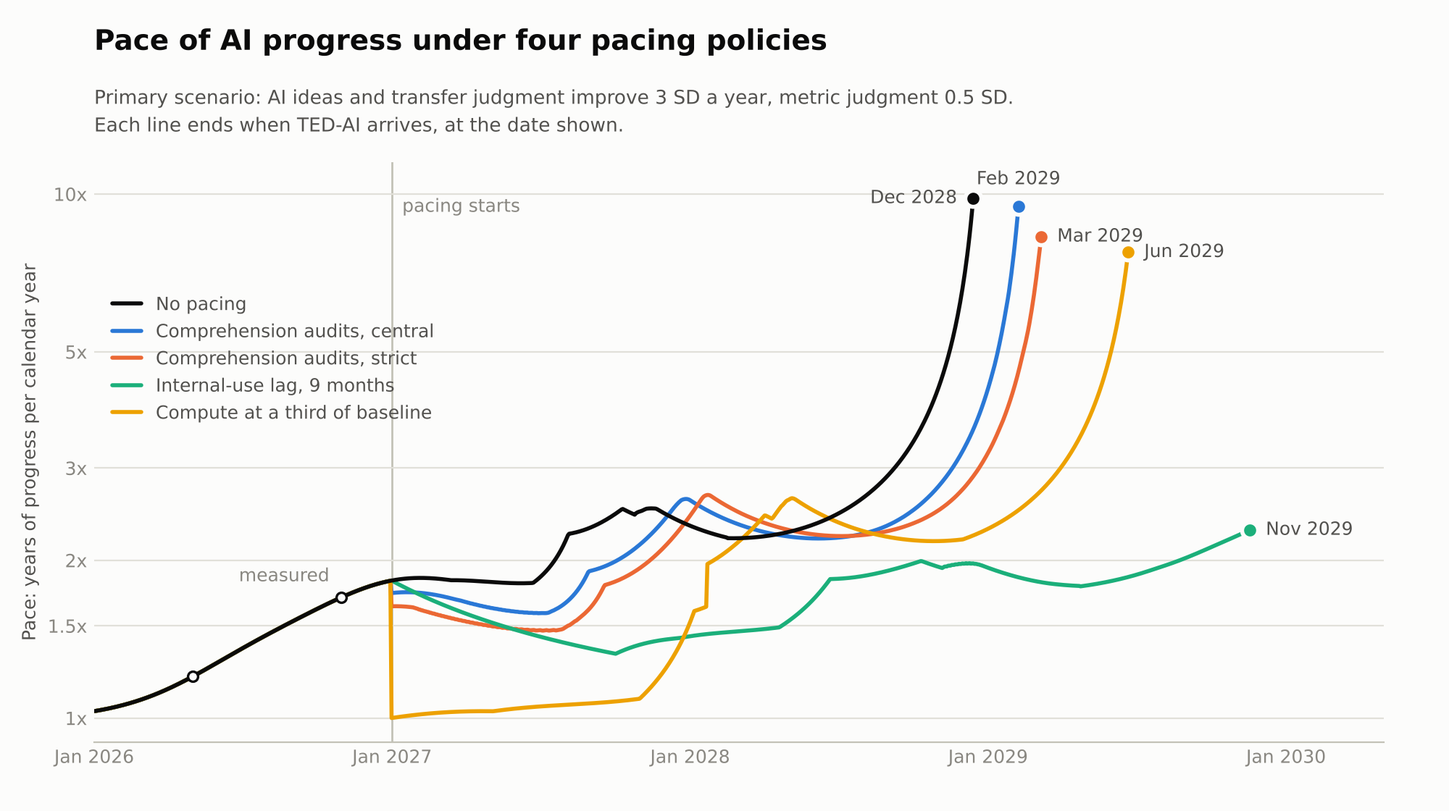
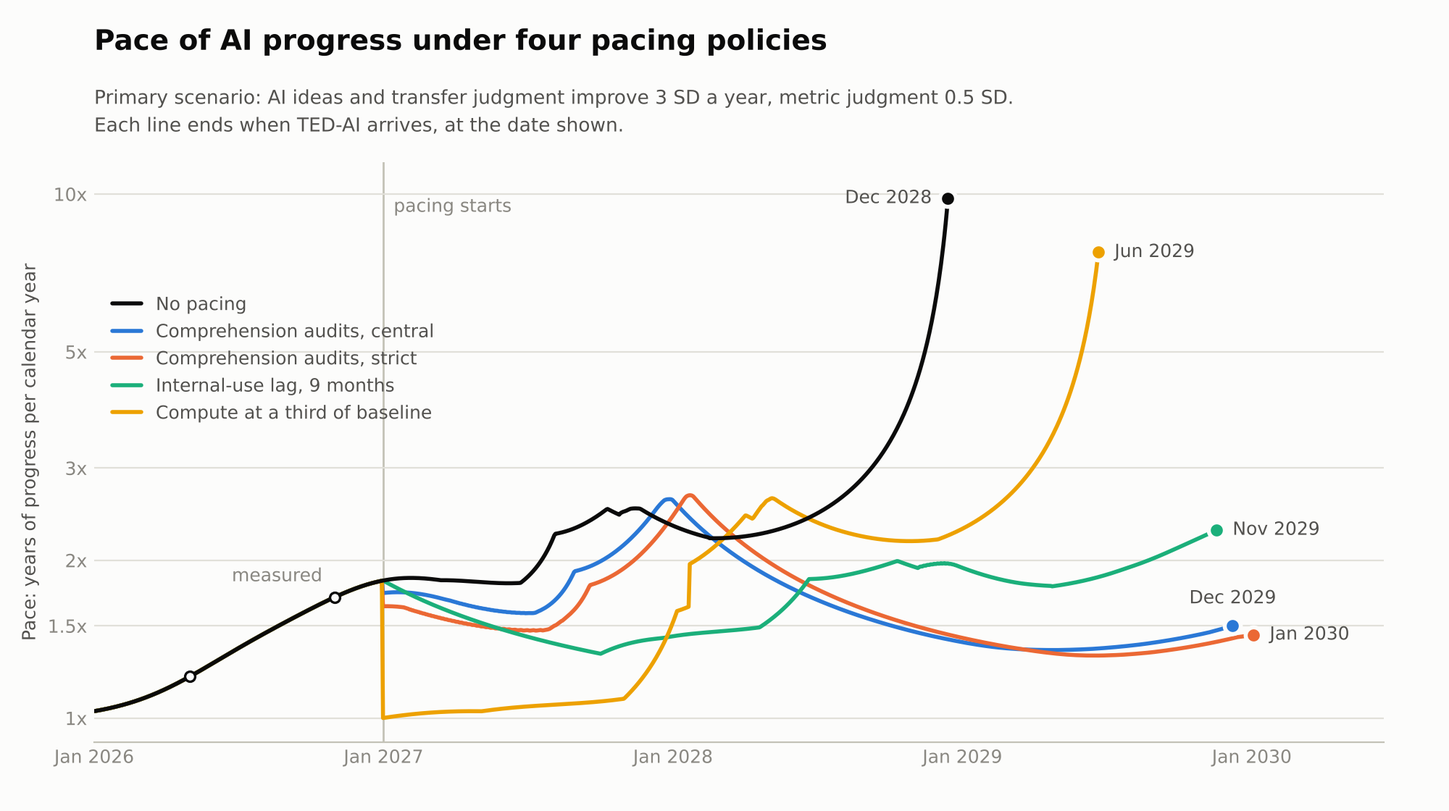
Make the chain model's audit pass a gain only as far as people can vouch for it
An audited lab may deploy a gain only up to what its best researcher
could have proposed. The model already said people cannot judge gains
past that, and an audit that people could pass on a change they cannot
evaluate was inconsistent with it.

Under audits the loop no longer runs away. In the primary scenario
central audits delay TED-AI by 12 months, up from 2, and the pace stays
between 1.4 and 1.7 times through 2029. An audit that takes hours only
is kept as a sensitivity.

Claude-Session: https://claude.ai/code/session_01FEzx7rBG83QTfvYZehGYHo

diff --git a/pacing-takeoff-model/chain/chain_model.py b/pacing-takeoff-model/chain/chain_model.py
@@ -135,6 +135,8 @@ class Params:
     change_growth: float = 0.4  # percent more deployed changes per percent more AI labor
     tail: float = 1.8  # Pareto index of a change's value. Lower means a few changes matter most
     audit_credit: float = 0.5  # share of audit time that also counts as judging experiments
+    audit_needs_vouching: bool = True  # an audited lab may deploy a gain only as far as its
+    # people can vouch for it. False: any change passes once people have spent the hours
 
 
 @dataclass(frozen=True)
@@ -262,8 +264,8 @@ def research(
     """Research per researcher against Oct 1, 2025, real and as measured on the lab's metrics.
 
     `experiments` is the number of experiments at scale against that date. Under audits the
-    lab chooses the share of its changes to understand and deploy that gives the most
-    research."""
+    lab deploys a gain only as far as its people can vouch for it, and it chooses the share
+    of its changes to understand and deploy that gives the most research."""
     n, n0 = ai["candidates"], p.candidates_base
     # Far past the best researcher every candidate is the AI's, and the rule is exp(k * SD).
     ideas = p.value_per_sd * ai["idea_sd"]
@@ -273,6 +275,10 @@ def research(
     gain = ideas + p.value_of_selection * (best_of(n) - best_of(n0))  # at small scale
     vouched = min(gain, p.value_per_sd * p.vouch_sd)
     beyond = gain - vouched
+    if audit_hours > 0.0 and p.audit_needs_vouching:
+        # An audit passes a change only if the lab's people understand it, and they cannot
+        # understand a gain past what they can vouch for. That part is not deployed.
+        gain, beyond = vouched, 0.0
     base = standing(p)
     # Once the AI's judgment on a link passes people's, people use it.
     transfer_people = max(1.0, ai["transfer"])
@@ -607,6 +613,7 @@ SENSITIVITY = (
     ("Transfer with the AI judging today: 0.4", dict(transfer_ai_start=0.4)),
     ("AI never judges better than people", dict(transfer_max=0.7, validity_max=0.8)),
     ("People can vouch for any gain", dict(vouch_sd=1e9)),
+    ("Audits take hours only: any change passes once understood", dict(audit_needs_vouching=False)),
     ("People can vouch for gains up to +1 SD ideas", dict(vouch_sd=1.0)),
     (
         "Judging time per experiment grows with candidates, elasticity 0.25",

diff --git a/pacing-takeoff-model/chain/test_chain_model.py b/pacing-takeoff-model/chain/test_chain_model.py
@@ -219,3 +219,25 @@ def test_the_pace_of_2026_cannot_be_fitted_much_above_the_central_difficulty():
     easy = replace(P, volume_elasticity=0.0)
     assert pace_in_november(fit_labor(replace(easy, difficulty=central - 0.05))) >= PACE_REF
     assert pace_in_november(fit_labor(replace(easy, difficulty=central + 0.05))) < PACE_REF
+
+
+def test_an_audited_lab_cannot_deploy_gains_past_what_its_people_can_vouch_for():
+    # An AI far past the best researcher: with no audit its ideas carry the research, and
+    # under an audit the lab gets no more than it would from ideas at the best researcher's.
+    far = ai_state(P.progress_at_ref + 4.0, SLOW)
+    at_range = dict(far, idea_sd=SLOW.vouch_sd)
+    assert far["idea_sd"] > SLOW.vouch_sd + 5.0
+    free = research(far, SLOW, experiments=5.0)
+    audited = research(far, SLOW, experiments=5.0, audit_hours=1.0, labor_at_ref=far["labor"])
+    capped = research(at_range, SLOW, experiments=5.0, audit_hours=1.0, labor_at_ref=far["labor"])
+    assert audited["real"] == pytest.approx(capped["real"])
+    assert audited["real"] < 0.5 * free["real"]
+
+
+def test_under_audits_the_pace_does_not_run_away():
+    free, audited = simulate(SLOW), simulate(SLOW, CENTRAL)
+    assert free["pace"][-1] > 5.0
+    assert np.nanmax(audited["pace"]) < 4.0
+    assert months(free, audited) > 6.0
+    hours_only = simulate(replace(SLOW, audit_needs_vouching=False), CENTRAL)
+    assert months(free, hours_only) < 0.5 * months(free, audited)

diff --git a/pacing-takeoff-model/chain/README.md b/pacing-takeoff-model/chain/README.md
@@ -13,7 +13,7 @@ Terms used below:
 - **Progress** is measured in years of AI progress at the rate before October 2025. **Pace** is years of progress per calendar year.
 - **SD** is a standard deviation of research judgment across a lab's researchers. The best researcher is at +3.09 SD.
 - **Researcher-level AI** is the date an AI-only lab's research matches a lab made up of its best researchers. **TED-AI** is the date it matches the level the AI Futures Project uses for top-expert-dominating AI, +7.72 SD. "Where the two levels come from" below gives their source.
-- **Comprehension audits** let a lab deploy only the changes its own people understand. An **internal-use lag** makes a lab work with the AI it had some months ago. A **compute limit** holds a lab to a share of the compute it would otherwise use for research and for training.
+- **Comprehension audits** let a lab deploy only the changes its own people understand. Understanding takes researchers' hours, and it has a reach: people cannot understand a gain past what they can vouch for, so an audited lab cannot deploy that part. An **internal-use lag** makes a lab work with the AI it had some months ago. A **compute limit** holds a lab to a share of the compute it would otherwise use for research and for training.
 
 ## The chain
 
@@ -29,7 +29,7 @@ small-scale result  ->  result on the metric at scale  ->  real value
 3. **Transfer** is the share of a small-scale gain that holds at scale. It depends on who judged which candidate would transfer.
 4. **Validity** is the share of a gain on the metric that is real. It depends on who defined the metric and checked the result for gaming.
 5. **People's time.** A person who judges an experiment supplies both links. Researchers judge as many experiments as they have time for, and the AI judges the rest with its own transfer and metric judgment. AI takes over implementation, which frees researcher time. Managing the agents takes part of it back, and more experiments use up the rest.
-6. **What people can vouch for.** People's judgment applies to gains up to what their best researcher could have proposed. The AI judges any gain beyond that.
+6. **What people can vouch for.** People's judgment applies to gains up to what their best researcher could have proposed. The AI judges any gain beyond that. Under comprehension audits the part beyond it is not deployed.
 7. **The lab chooses.** It runs the amount of AI labor that gives it the most research. More agents mean more experiments and more candidates. They also mean more for people to judge and, under audits, more deployed changes to understand.
 8. **The loop.** Real research makes software progress, and progress makes better AI.
 9. **Difficulty.** Research gets harder as software advances: each year of software progress halves what a unit of research buys. A lab's other inputs, compute and people, have grown fast enough to offset that, which is what a pace of 1 means. Whether the loop runs away or peters out turns on whether the AI's judgment adds research faster than difficulty takes it away.
@@ -115,24 +115,25 @@ Delay to TED-AI in every scenario. Pacing starts January 1, 2027.
 
 | AI judgment gained per year of progress | Central audits | Strict audits | 9-month lag | Compute at a third of baseline |
 |---|---|---|---|---|
-| Ideas, transfer and metrics all +3 SD | +0 mo | +1 mo | +11 mo | +4 mo |
-| Ideas and transfer +3, metrics +1 | +2 mo | +3 mo | +10 mo | +6 mo |
-| **Ideas and transfer +3, metrics +0.5 (primary)** | **+2 mo** | **+3 mo** | **+11 mo** | **+6 mo** |
-| Ideas +3, transfer and metrics +1 | +2 mo | +3 mo | +9 mo | +7 mo |
-| Ideas +3, transfer +1, metrics +0.5 | +2 mo | +4 mo | +11 mo | +7 mo |
-| Ideas +3, transfer and metrics +0.5 | +2 mo | +4 mo | +10 mo | +7 mo |
+| Ideas, transfer and metrics all +3 SD | +1 mo | +1 mo | +11 mo | +4 mo |
+| Ideas and transfer +3, metrics +1 | +4 mo | +5 mo | +10 mo | +6 mo |
+| **Ideas and transfer +3, metrics +0.5 (primary)** | **+12 mo** | **+13 mo** | **+11 mo** | **+6 mo** |
+| Ideas +3, transfer and metrics +1 | +4 mo | +5 mo | +9 mo | +7 mo |
+| Ideas +3, transfer +1, metrics +0.5 | +11 mo | +12 mo | +11 mo | +7 mo |
+| Ideas +3, transfer and metrics +0.5 | +13 mo | +14 mo | +10 mo | +7 mo |
 
-Central audits take the hours to understand every deployed change that researchers are assumed to spend today, 14% of their time. Strict audits take twice the hours. The compute limit holds a lab to a third of the compute it would otherwise use for experiments at scale, for small experiments, for running AI labor and for training the next model.
+An audit has two parts here. The first is hours: central audits take the hours to understand every deployed change that researchers are assumed to spend today, 14% of their time, and strict audits take twice that. The second is reach: a lab's people can understand a gain only as far as they can vouch for it, which is up to what their best researcher could have proposed. The part of a gain past that is not deployed, however many hours are spent. The compute limit holds a lab to a third of the compute it would otherwise use for experiments at scale, for small experiments, for running AI labor and for training the next model.
 
-- **A 9-month lag delays TED-AI the most, by 9 to 11 months in every scenario.**
+- **Under audits the loop does not run away.** In the primary scenario the pace under central audits peaks at 2.6 times in January 2028 and is 1.4 to 1.7 times from mid-2028 through 2029. With no pacing it reaches 9.8 times as TED-AI arrives in December 2028.
+- **TED-AI still arrives, a year later, as a capability the lab may not fully use.** The lab keeps making progress on gains its people can vouch for, and the AI keeps improving with that progress. In December 2029 the newest AI could do research at the TED-AI level. The audited lab deploys only the part of its ideas that people can vouch for, and its pace is 1.5 times.
+- **The reach does the work, and the hours add a month.** Light, central and strict audits delay TED-AI in the primary scenario by 11, 12 and 13 months. If any change passes once people have spent the hours, central audits delay it by 2 months.
+- **Audits delay most where the AI's metric judgment is slow.** Central audits delay TED-AI by 11 to 13 months with metrics at +0.5 SD, by 4 months at +1 SD and by 1 month where all judgment improves 3 SD a year. In that last scenario TED-AI arrives before the AI's ideas are far past people's.
+- **The delay moves with how far people can vouch.** With a reach of +1 SD ideas the central delay in the primary scenario is 16 months, against 12 at the best researcher's +3.09 SD.
+- **An audited lab runs far fewer agents.** More agents mean more changes to understand. From 2028 to early 2029 the lab runs 12 to 34 agents per researcher and its people judge a quarter to two fifths of its experiments.
+- **A 9-month lag delays TED-AI by 9 to 11 months in every scenario.** Central audits and the lag together delay it by 15 months in the primary scenario.
 - **A compute limit at a third of baseline delays it by 4 to 7 months.** Training waits about a year for its allowance to catch up with what it has already used, and research runs on a third of the compute from then on.
-- **Audits delay it by up to 2 months at the central standard and 1 to 4 at the strict one.**
-- **An audited lab runs far fewer agents.** More agents mean more changes to understand, so the lab cuts the AI labor it runs to between tens and thousands of agents per researcher, where it could run a hundred thousand or more. It loses little, because what agents add to experiments and to candidates flattens, and with fewer experiments people judge more of them.
-- **So in this model audits work as a brake on how much AI labor a lab runs.** They slow the pace through 2027 and delay the takeoff by months.
-- **An earlier version of this section had audits delaying TED-AI by one to four years.** There the lab had to run all the AI labor it had, and the pace under audits fell below its level before AI. That result is withdrawn.
-- **The audit result still rests on deployed changes growing with AI labor.** The model assumes 0.4% more changes for each 1% more labor. Anthropic's figures support that over the range seen so far: commits per engineer rose 5 times in six months while agent hours per person rose 50 to 100 times, an elasticity of about 0.35 to 0.4. If deployed changes do not grow with AI labor, audits delay TED-AI by nothing.
-- **Half of audit time is taken to count as judging.** At none of it the central delay in the primary scenario is 3 months, and at all of it 1.
 - **A third is a tight compute limit.** In the AI Futures Project's input series, experiments, training and running AI researchers take 62% of the leading company's compute in 2026: 50%, 7% and 5%. A third of that is 21%, which matches a rule that about 79% of compute go to other uses. A rule of 60% would leave research about two thirds of baseline and delay TED-AI by 2 to 3 months. That run is not in the results file.
+- **Two earlier versions of this section are withdrawn.** In the first the lab had to run all the AI labor it had, and audits delayed TED-AI by one to four years. In the second an audit took hours only, and audits delayed it by 2 months.
 
 ## Where the two levels come from
 
@@ -149,10 +150,10 @@ The debate over whether automated research runs away or peters out is a debate a
 
 | Halvings of what research buys per year of software progress | Share of a gain the AI must keep for the loop to run away | TED-AI, all judgment +3 SD | TED-AI, primary scenario | Central audits delay it |
 |---|---|---|---|---|
-| 0.5 | 39% | Apr 2027 | Apr 2028 | +1 mo |
-| 1 | 78% | May 2027 | Dec 2028 | +2 mo |
-| 1.5 | 117% | Jun 2027 | Jun 2029 | +2 mo |
-| 2 | 156% | Aug 2027 | Nov 2029 | +2 mo |
+| 0.5 | 39% | Apr 2027 | Apr 2028 | +8 mo |
+| 1 | 78% | May 2027 | Dec 2028 | +12 mo |
+| 1.5 | 117% | Jun 2027 | Jun 2029 | +12 mo |
+| 2 | 156% | Aug 2027 | Nov 2029 | +11 mo |
 
 The table stops at 2 because the model cannot reach the pace measured in November 2026 at much higher values. The highest difficulty that still fits, and how it moves with the inputs it rests on:
 
@@ -180,12 +181,12 @@ The table stops at 2 because the model cannot reach the pace measured in Novembe
 
 ## Each input moved
 
-The primary scenario. TED-AI is December 2028 in the central row. Across the 20 rows in `results/tables.md` it runs from December 2027 to July 2029.
+The primary scenario. TED-AI is December 2028 in the central row. Across the 21 rows in `results/tables.md` it runs from December 2027 to July 2029.
 
 - **Earliest.** Validity of 0.3 with the AI judging today (December 2027). An experiment ceiling of 60 times (March 2028). People able to vouch for any gain (April 2028).
 - **Latest.** Validity of 0.01 with the AI judging today (July 2029). An AI that never judges better than people, and ideas at +2.1 SD (both June 2029).
 - **Time spent managing agents matters little.** With none, TED-AI comes in November 2028, and with a third of researcher time, January 2029.
-- **The delay from central audits is 1 to 4 months in every row** but the one where deployed changes do not grow with AI labor. The delay from a 9-month lag is 10 to 15 months.
+- **The delay from central audits is 8 to 16 months in every row but two.** Those are the rows that remove the reach: people able to vouch for any gain (1 month), and audits that take hours only (2 months). The delay from a 9-month lag is 10 to 15 months.
 - **The level set for TED-AI matters little.** At the public code's default of +6.18 SD, TED-AI comes in November 2028, a month earlier. That run is not in the results file.
 
 ## Inputs
@@ -212,9 +213,12 @@ The primary scenario. TED-AI is December 2028 in the central row. Across the 20 
 | Growth of deployed changes with AI labor | 0.4 | Judgment. Anthropic's commits per engineer and agent hours give about 0.35 to 0.4 over six months of 2026. Tested at 0 |
 | Spread of value across deployed changes | Pareto index 1.8 | Judgment |
 | Share of audit time that counts as judging | 50% | Judgment. Tested at 0 and 100% |
+| What an audit passes | A gain only as far as people can vouch for it | Readback's judgment of 2026-11-16: an audit that people can pass on a change they cannot evaluate does not test comprehension. Tested with hours only |
 
 ## What to hold loosely
 
+- **How far people can vouch is fixed.** It stays at the best researcher's level however good the AI becomes at explaining its work. If AI help extends it, audits delay less.
+- **Under audits TED-AI is a capability, and the model stops there.** It does not follow what a lab does with an AI it may not fully use, or whether the audit holds.
 - **AI labor keeps doubling, with no cap.** The model extrapolates a monthly doubling of agent hours per researcher that has been observed for seven months, and Anthropic's own series flattens in its last ten days. Readback's judgment is that the ratio keeps climbing as AI takes over research. What the labor adds is capped, and a lab runs only as much of it as helps.
 - **Judgment improves with progress, with no limit on how fast.** A lab would need its feedback on transfer and metrics to keep up.
 - **Ideas have no ceiling.** AI judgment on well-defined problems rises without limit, as in the AI Futures Model.
@@ -238,7 +242,7 @@ pytest
 |---|---|
 | `chain_model.py` | The model and the code that writes the tables |
 | `figure.py` | Draws `results/pace.png`. Needs matplotlib |
-| `test_chain_model.py` | Sixteen checks: the calibration, the AI Futures case the model reduces to, and the directions its results must move in |
+| `test_chain_model.py` | Eighteen checks: the calibration, the AI Futures case the model reduces to, and the directions its results must move in |
 | `results/tables.md` | Every table, written by the script |
 | `LICENSE` | MIT |
 

diff --git a/pacing-takeoff-model/chain/results/tables.md b/pacing-takeoff-model/chain/results/tables.md
@@ -21,12 +21,12 @@ Researcher-level AI and TED-AI are the dates an AI-only lab's research matches a
 
 | AI judgment gained per year | TED-AI, no pacing | Central audits | Strict audits | 9-month lag | Compute at a third of baseline |
 |---|---|---|---|---|---|
-| Ideas, transfer and metrics all +3 SD a year | May 2027 | +0 mo | +1 mo | +11 mo | +4 mo |
-| Ideas and transfer +3, metrics +1 | Jan 2028 | +2 mo | +3 mo | +10 mo | +6 mo |
-| Ideas and transfer +3, metrics +0.5 | Dec 2028 | +2 mo | +3 mo | +11 mo | +6 mo |
-| Ideas +3, transfer and metrics +1 | May 2028 | +2 mo | +3 mo | +9 mo | +7 mo |
-| Ideas +3, transfer +1, metrics +0.5 | Apr 2029 | +2 mo | +4 mo | +11 mo | +7 mo |
-| Ideas +3, transfer and metrics +0.5 | Jan 2030 | +2 mo | +4 mo | +10 mo | +7 mo |
+| Ideas, transfer and metrics all +3 SD a year | May 2027 | +1 mo | +1 mo | +11 mo | +4 mo |
+| Ideas and transfer +3, metrics +1 | Jan 2028 | +4 mo | +5 mo | +10 mo | +6 mo |
+| Ideas and transfer +3, metrics +0.5 | Dec 2028 | +12 mo | +13 mo | +11 mo | +6 mo |
+| Ideas +3, transfer and metrics +1 | May 2028 | +4 mo | +5 mo | +9 mo | +7 mo |
+| Ideas +3, transfer +1, metrics +0.5 | Apr 2029 | +11 mo | +12 mo | +11 mo | +7 mo |
+| Ideas +3, transfer and metrics +0.5 | Jan 2030 | +13 mo | +14 mo | +10 mo | +7 mo |
 
 ## The path with no pacing: ideas and transfer +3, metrics +0.5
 
@@ -41,26 +41,27 @@ Researcher-level AI and TED-AI are the dates an AI-only lab's research matches a
 
 | Case | Researcher-level AI | TED-AI | Central audits delay TED-AI | 9-month lag delays TED-AI |
 |---|---|---|---|---|
-| Central | Aug 2028 | Dec 2028 | +2 mo | +11 mo |
-| Experiments from unlimited AI labor: 5 times | Nov 2028 | Mar 2029 | +1 mo | +11 mo |
-| Experiments from unlimited AI labor: 60 times | Jan 2028 | Mar 2028 | +4 mo | +12 mo |
-| Validity with the AI judging today: 0.3 | Sep 2027 | Dec 2027 | +1 mo | +12 mo |
-| Validity with the AI judging today: 0.01 | Mar 2029 | Jul 2029 | +1 mo | +10 mo |
-| Transfer with the AI judging today: 0.4 | Aug 2028 | Dec 2028 | +2 mo | +11 mo |
-| AI never judges better than people | Feb 2029 | Jun 2029 | +2 mo | +10 mo |
+| Central | Aug 2028 | Dec 2028 | +12 mo | +11 mo |
+| Experiments from unlimited AI labor: 5 times | Nov 2028 | Mar 2029 | +10 mo | +11 mo |
+| Experiments from unlimited AI labor: 60 times | Jan 2028 | Mar 2028 | +13 mo | +12 mo |
+| Validity with the AI judging today: 0.3 | Sep 2027 | Dec 2027 | +8 mo | +12 mo |
+| Validity with the AI judging today: 0.01 | Mar 2029 | Jul 2029 | +11 mo | +10 mo |
+| Transfer with the AI judging today: 0.4 | Aug 2028 | Dec 2028 | +12 mo | +11 mo |
+| AI never judges better than people | Feb 2029 | Jun 2029 | +14 mo | +10 mo |
 | People can vouch for any gain | Mar 2028 | Apr 2028 | +1 mo | +15 mo |
-| People can vouch for gains up to +1 SD ideas | Nov 2028 | Feb 2029 | +2 mo | +11 mo |
-| Judging time per experiment grows with candidates, elasticity 0.25 | Sep 2028 | Jan 2029 | +2 mo | +11 mo |
-| 60% of researcher time was already on judging | Oct 2028 | Jan 2029 | +2 mo | +11 mo |
-| No researcher time goes to managing agents | Jul 2028 | Nov 2028 | +1 mo | +11 mo |
-| A third of researcher time goes to managing agents | Sep 2028 | Jan 2029 | +2 mo | +11 mo |
-| Ideas improve +2.1 SD a year | Mar 2029 | Jun 2029 | +2 mo | +11 mo |
-| Selection worth twice as much | Jul 2028 | Oct 2028 | +2 mo | +11 mo |
-| Up to a million candidates behind each experiment | Sep 2028 | Dec 2028 | +1 mo | +11 mo |
-| Compute grows at half the historical rate from 2029 | Aug 2028 | Dec 2028 | +2 mo | +12 mo |
-| Audit time counts in full as judging | Aug 2028 | Dec 2028 | +1 mo | +11 mo |
-| Audit time does not count as judging | Aug 2028 | Dec 2028 | +3 mo | +11 mo |
-| Deployed changes do not grow with AI labor | Aug 2028 | Dec 2028 | +0 mo | +11 mo |
+| Audits take hours only: any change passes once understood | Aug 2028 | Dec 2028 | +2 mo | +11 mo |
+| People can vouch for gains up to +1 SD ideas | Nov 2028 | Feb 2029 | +16 mo | +11 mo |
+| Judging time per experiment grows with candidates, elasticity 0.25 | Sep 2028 | Jan 2029 | +12 mo | +11 mo |
+| 60% of researcher time was already on judging | Oct 2028 | Jan 2029 | +12 mo | +11 mo |
+| No researcher time goes to managing agents | Jul 2028 | Nov 2028 | +11 mo | +11 mo |
+| A third of researcher time goes to managing agents | Sep 2028 | Jan 2029 | +12 mo | +11 mo |
+| Ideas improve +2.1 SD a year | Mar 2029 | Jun 2029 | +11 mo | +11 mo |
+| Selection worth twice as much | Jul 2028 | Oct 2028 | +14 mo | +11 mo |
+| Up to a million candidates behind each experiment | Sep 2028 | Dec 2028 | +11 mo | +11 mo |
+| Compute grows at half the historical rate from 2029 | Aug 2028 | Dec 2028 | +14 mo | +12 mo |
+| Audit time counts in full as judging | Aug 2028 | Dec 2028 | +11 mo | +11 mo |
+| Audit time does not count as judging | Aug 2028 | Dec 2028 | +13 mo | +11 mo |
+| Deployed changes do not grow with AI labor | Aug 2028 | Dec 2028 | +10 mo | +11 mo |
 
 ## By how fast research gets harder
 
@@ -68,10 +69,10 @@ The three fitted inputs are refitted at each difficulty. The most the AI's judgm
 
 | Halvings of what research buys per year of software progress | Share of a gain the AI must keep for the loop to run away | TED-AI, all judgment +3 SD | TED-AI, ideas and transfer +3 and metrics +0.5 | Central audits delay it |
 |---|---|---|---|---|
-| 0.5 | 39% | Apr 2027 | Apr 2028 | +1 mo |
-| 1 | 78% | May 2027 | Dec 2028 | +2 mo |
-| 1.5 | 117% | Jun 2027 | Jun 2029 | +2 mo |
-| 2 | 156% | Aug 2027 | Nov 2029 | +2 mo |
+| 0.5 | 39% | Apr 2027 | Apr 2028 | +8 mo |
+| 1 | 78% | May 2027 | Dec 2028 | +12 mo |
+| 1.5 | 117% | Jun 2027 | Jun 2029 | +12 mo |
+| 2 | 156% | Aug 2027 | Nov 2029 | +11 mo |
 
 Above some difficulty the model cannot reach the pace measured in November 2026. The table below gives the highest difficulty that still fits, computed by `max_difficulty`, and how it moves with the inputs it rests on.
 
@@ -95,9 +96,9 @@ Above some difficulty the model cannot reach the pace measured in November 2026.
 | Scenario | Researcher-level AI | Delay | TED-AI | Delay |
 |---|---|---|---|---|
 | No pacing | May 2027 |  | May 2027 |  |
-| Comprehension audits, light | May 2027 | +0 mo | May 2027 | +0 mo |
-| Comprehension audits, central | May 2027 | +0 mo | Jun 2027 | +0 mo |
-| Comprehension audits, strict | Jun 2027 | +1 mo | Jun 2027 | +1 mo |
+| Comprehension audits, light | May 2027 | +0 mo | Jun 2027 | +0 mo |
+| Comprehension audits, central | May 2027 | +0 mo | Jun 2027 | +1 mo |
+| Comprehension audits, strict | Jun 2027 | +1 mo | Jul 2027 | +1 mo |
 | Internal-use lag, 3 months | Sep 2027 | +4 mo | Nov 2027 | +5 mo |
 | Internal-use lag, 9 months | Jan 2028 | +8 mo | Apr 2028 | +11 mo |
 | R&D compute at a third of baseline | Sep 2027 | +4 mo | Sep 2027 | +4 mo |
@@ -108,9 +109,9 @@ Above some difficulty the model cannot reach the pace measured in November 2026.
 | Scenario | Researcher-level AI | Delay | TED-AI | Delay |
 |---|---|---|---|---|
 | No pacing | Dec 2027 |  | Jan 2028 |  |
-| Comprehension audits, light | Jan 2028 | +1 mo | Jan 2028 | +1 mo |
-| Comprehension audits, central | Jan 2028 | +1 mo | Feb 2028 | +2 mo |
-| Comprehension audits, strict | Feb 2028 | +2 mo | Mar 2028 | +3 mo |
+| Comprehension audits, light | Feb 2028 | +2 mo | Apr 2028 | +3 mo |
+| Comprehension audits, central | Feb 2028 | +2 mo | Apr 2028 | +4 mo |
+| Comprehension audits, strict | Mar 2028 | +3 mo | May 2028 | +5 mo |
 | Internal-use lag, 3 months | Mar 2028 | +4 mo | Jun 2028 | +5 mo |
 | Internal-use lag, 9 months | Jul 2028 | +7 mo | Nov 2028 | +10 mo |
 | R&D compute at a third of baseline | Jun 2028 | +6 mo | Jul 2028 | +6 mo |
@@ -121,22 +122,22 @@ Above some difficulty the model cannot reach the pace measured in November 2026.
 | Scenario | Researcher-level AI | Delay | TED-AI | Delay |
 |---|---|---|---|---|
 | No pacing | Aug 2028 |  | Dec 2028 |  |
-| Comprehension audits, light | Sep 2028 | +1 mo | Jan 2029 | +1 mo |
-| Comprehension audits, central | Oct 2028 | +1 mo | Feb 2029 | +2 mo |
-| Comprehension audits, strict | Oct 2028 | +2 mo | Mar 2029 | +3 mo |
+| Comprehension audits, light | Dec 2028 | +4 mo | Nov 2029 | +11 mo |
+| Comprehension audits, central | Dec 2028 | +4 mo | Dec 2029 | +12 mo |
+| Comprehension audits, strict | Jan 2029 | +5 mo | Jan 2030 | +13 mo |
 | Internal-use lag, 3 months | Nov 2028 | +3 mo | May 2029 | +5 mo |
 | Internal-use lag, 9 months | Mar 2029 | +7 mo | Nov 2029 | +11 mo |
 | R&D compute at a third of baseline | Feb 2029 | +6 mo | Jun 2029 | +6 mo |
-| Comprehension audits (central) + 9-month lag | Apr 2029 | +8 mo | Dec 2029 | +12 mo |
+| Comprehension audits (central) + 9-month lag | Apr 2029 | +8 mo | Mar 2030 | +15 mo |
 
 ### Ideas +3, transfer and metrics +1
 
 | Scenario | Researcher-level AI | Delay | TED-AI | Delay |
 |---|---|---|---|---|
 | No pacing | May 2028 |  | May 2028 |  |
-| Comprehension audits, light | Jun 2028 | +1 mo | Jun 2028 | +1 mo |
-| Comprehension audits, central | Jun 2028 | +2 mo | Jul 2028 | +2 mo |
-| Comprehension audits, strict | Jul 2028 | +3 mo | Aug 2028 | +3 mo |
+| Comprehension audits, light | Jul 2028 | +2 mo | Sep 2028 | +4 mo |
+| Comprehension audits, central | Aug 2028 | +3 mo | Sep 2028 | +4 mo |
+| Comprehension audits, strict | Sep 2028 | +4 mo | Nov 2028 | +5 mo |
 | Internal-use lag, 3 months | Jul 2028 | +3 mo | Oct 2028 | +5 mo |
 | Internal-use lag, 9 months | Oct 2028 | +6 mo | Feb 2029 | +9 mo |
 | R&D compute at a third of baseline | Nov 2028 | +7 mo | Dec 2028 | +7 mo |
@@ -147,24 +148,24 @@ Above some difficulty the model cannot reach the pace measured in November 2026.
 | Scenario | Researcher-level AI | Delay | TED-AI | Delay |
 |---|---|---|---|---|
 | No pacing | Jan 2029 |  | Apr 2029 |  |
-| Comprehension audits, light | Mar 2029 | +2 mo | May 2029 | +2 mo |
-| Comprehension audits, central | Mar 2029 | +2 mo | Jun 2029 | +2 mo |
-| Comprehension audits, strict | Apr 2029 | +3 mo | Jul 2029 | +4 mo |
+| Comprehension audits, light | Jun 2029 | +5 mo | Feb 2030 | +10 mo |
+| Comprehension audits, central | Jun 2029 | +5 mo | Feb 2030 | +11 mo |
+| Comprehension audits, strict | Jul 2029 | +6 mo | Apr 2030 | +12 mo |
 | Internal-use lag, 3 months | Apr 2029 | +3 mo | Sep 2029 | +5 mo |
 | Internal-use lag, 9 months | Jul 2029 | +6 mo | Mar 2030 | +11 mo |
 | R&D compute at a third of baseline | Aug 2029 | +7 mo | Nov 2029 | +7 mo |
-| Comprehension audits (central) + 9-month lag | Sep 2029 | +7 mo | May 2030 | +13 mo |
+| Comprehension audits (central) + 9-month lag | Sep 2029 | +8 mo | Jul 2030 | +16 mo |
 
 ### Ideas +3, transfer and metrics +0.5
 
 | Scenario | Researcher-level AI | Delay | TED-AI | Delay |
 |---|---|---|---|---|
 | No pacing | Sep 2029 |  | Jan 2030 |  |
-| Comprehension audits, light | Nov 2029 | +2 mo | Feb 2030 | +2 mo |
-| Comprehension audits, central | Nov 2029 | +2 mo | Mar 2030 | +2 mo |
-| Comprehension audits, strict | Dec 2029 | +3 mo | Apr 2030 | +4 mo |
+| Comprehension audits, light | Mar 2030 | +6 mo | Jan 2031 | +12 mo |
+| Comprehension audits, central | Apr 2030 | +7 mo | Jan 2031 | +13 mo |
+| Comprehension audits, strict | May 2030 | +8 mo | Mar 2031 | +14 mo |
 | Internal-use lag, 3 months | Nov 2029 | +2 mo | May 2030 | +5 mo |
 | Internal-use lag, 9 months | Feb 2030 | +5 mo | Oct 2030 | +10 mo |
 | R&D compute at a third of baseline | Apr 2030 | +7 mo | Aug 2030 | +7 mo |
-| Comprehension audits (central) + 9-month lag | Apr 2030 | +7 mo | Dec 2030 | +12 mo |
+| Comprehension audits (central) + 9-month lag | May 2030 | +8 mo | Apr 2031 | +16 mo |
 

diff --git a/spec.md b/spec.md
@@ -124,7 +124,7 @@ Decided 2026-11-12 (PI, in session):
 - **D19 The labs' own usage data enter the pacing model.** Three choices. The rates on fuzzy tasks stay at +1 and +0.5 SD a year: Anthropic's TASTE benchmark has frontier models at chance on judging safety research proposals, which the PI reads as a level below the point of signal and consistent with improvement, so it is recorded as a check on the level and a test to watch and does not change a rate. The share of work that needs a person however short the task starts at 14%, OpenAI's figure for tasks under 15 minutes, and falls as AI judgment on fuzzy tasks rises. The PI holds that there is no fixed ceiling on unsupervised work. The model does not anchor on Google DeepMind's delegation data, because its models were behind the frontier for most of the period they cover; a supervision schedule fitted to its fully delegated pull requests is kept as a sensitivity only. On 2026-11-13 the PI had Anthropic's session success rates added as a third developer's figure for that share, with sensitivity runs on its starting level, its supervision time, how it falls and the audit hours (`pacing-takeoff-model/residue_sensitivity.py`). The same day the PI set the central supervision of that work to 0.5% of its time, from the PI's estimate of half an hour of a person's day for each running session, with a session doing 8 to 12 person-days of work in a day. No developer reports that figure. Three benchmarks scored against human judgment (a rerun of TASTE, RedwoodBench and LMCA) were read from chart images the PI supplied; their pages were not fetched and are not source records. The five reports behind this (Google DeepMind's Gemini 4 Argon safety report, the TASTE page, Ramez Naam's essay, and Anthropic's "When AI builds itself" and "How employment is changing at Anthropic") are not yet source records here.
 - **D20 The pacing model's two task classes are named supervisable and HTS fuzzy.** Decided by the PI on 2026-11-13. The slow class is the hard-to-supervise fuzzy tasks of Bowkis et al., HTS fuzzy for short. The fast class is everything else and is called supervisable, because it is defined by people being able to judge the work. It holds that paper's crisp tasks and the fuzzy tasks people judge reliably. The earlier labels, crisp and fuzzy, made benchmarks scored against human judgment look like evidence on the wrong class. Keys, parameter names and result file names in the model's code use the same two names. They kept the earlier labels for one day and were renamed on the PI's instruction before the next rerun; the one saved file that held an old key, a results meta file, was migrated.
 - **D21 Supervisable work has a weight of 80% in the pacing model.** Decided by the PI on 2026-11-13. It was 65%, the importance-based anchor. No source measures the weight. The three anchors give 60% to 84% and separate well-defined work from the rest, which is wider than the HTS fuzzy class, so they are a floor. The PI moved the central value after three arguments that point above them: Bowkis et al. say fuzzy tasks are more prevalent in alignment research than in capabilities research, benchmarks scored against human judgment rise with general capability, and Dwarkesh Patel's essay of 2026-11-13 argues that AI research has verifiable proxies for its main kinds of work. The model is also run at 50%, 65% and 90%. Patel's essay is not yet a source record here.
-- **D22 A standalone chain model sits beside the pacing models.** Directed by the PI on 2026-11-15. It lives in `pacing-takeoff-model/chain/`, a self-contained folder that can be shared on its own. It replaces the weight of supervisable work (D21) and the substitution between the classes with a mechanism: experiments at scale limited by compute, small experiments behind each one, and two links, transfer and validity, between a small-scale result and real value. People supply both links for the experiments they have time to judge and the AI supplies its own for the rest. The values of the links, the limit on what people can vouch for and the share of audit time that counts as judging are judgments with no measurement behind them. PI decisions: validity of work left to the AI is 0.05 against people's 0.8, lowered from the first draft's 0.3 (2026-11-15). The AI's transfer and metric judgment improve with progress, as its ideas do; a reading in which they improve with calendar time was built and removed, and no limit is put on how fast they improve (2026-11-16). There is no ceiling on ideas (2026-11-15). A compute limit holds a lab to a share of baseline, a third in the tables, and covers experiments at scale, small experiments, AI labor and training (2026-11-16). How fast research gets harder is an input, stated per year of software progress, and the milestone levels are computed from the AI Futures Project's percentile and gap parameters (2026-11-16). AI labor is fitted to Anthropic's 19 agent hours per human work-hour in its research organizations in late August 2026, in place of OpenAI's trend, and 22% of researcher time goes to managing agents, from Anthropic's share of model researchers' agent sessions (2026-11-16). AI labor per researcher has no cap; the PI expects the ratio to keep climbing as AI takes over research. A lab runs the amount of its AI labor that gives the most research, with or without audits. The primary scenario is ideas and transfer judgment at +3 SD a year and metric judgment at +0.5 SD (2026-11-16). The model does not replace Model A, Model B or the simple model, and the briefing does not yet report its results.
+- **D22 A standalone chain model sits beside the pacing models.** Directed by the PI on 2026-11-15. It lives in `pacing-takeoff-model/chain/`, a self-contained folder that can be shared on its own. It replaces the weight of supervisable work (D21) and the substitution between the classes with a mechanism: experiments at scale limited by compute, small experiments behind each one, and two links, transfer and validity, between a small-scale result and real value. People supply both links for the experiments they have time to judge and the AI supplies its own for the rest. The values of the links, the limit on what people can vouch for and the share of audit time that counts as judging are judgments with no measurement behind them. PI decisions: validity of work left to the AI is 0.05 against people's 0.8, lowered from the first draft's 0.3 (2026-11-15). The AI's transfer and metric judgment improve with progress, as its ideas do; a reading in which they improve with calendar time was built and removed, and no limit is put on how fast they improve (2026-11-16). There is no ceiling on ideas (2026-11-15). A compute limit holds a lab to a share of baseline, a third in the tables, and covers experiments at scale, small experiments, AI labor and training (2026-11-16). How fast research gets harder is an input, stated per year of software progress, and the milestone levels are computed from the AI Futures Project's percentile and gap parameters (2026-11-16). AI labor is fitted to Anthropic's 19 agent hours per human work-hour in its research organizations in late August 2026, in place of OpenAI's trend, and 22% of researcher time goes to managing agents, from Anthropic's share of model researchers' agent sessions (2026-11-16). AI labor per researcher has no cap; the PI expects the ratio to keep climbing as AI takes over research. A lab runs the amount of its AI labor that gives the most research, with or without audits. The primary scenario is ideas and transfer judgment at +3 SD a year and metric judgment at +0.5 SD (2026-11-16). Under comprehension audits a lab may deploy a gain only as far as its people can vouch for it, which is up to what its best researcher could have proposed; an audit that takes hours only is kept as a sensitivity (2026-11-16). The model does not replace Model A, Model B or the simple model, and the briefing does not yet report its results.
 
 Taken as defaults by the build, for the PI to confirm or change:
 

diff --git a/pacing-takeoff-model/README.md b/pacing-takeoff-model/README.md
@@ -1138,7 +1138,7 @@ Model A alone runs with `run_all.py --skip-aifm` and needs no checkout. Results 
 | `residue_sensitivity.py` | What three developers report on the share of work that needs a person, and how far the result depends on its starting level, its supervision time, how it falls and the audit hours |
 | `simple_model.py`, `SIMPLE.md` | A one-file model with one state variable that carries the main results, and its write-up. Needs numpy only. `simple_figures.py` draws its figures |
 | `chain/` | A standalone model, added 2026-11-15, that replaces the weight of supervisable work and the substitution with a chain from small experiments to real value. The folder is self-contained, with its own write-up, checks and results, and shares no code with the other models. Its results are not in this briefing |
-| `test_pacing_model.py`, `test_simple_model.py` | Forty checks, including that the adapter reproduces the AI Futures Model's own dates. The three that need the AI Futures checkout skip without `AIFM_PATH`. `chain/` has sixteen of its own |
+| `test_pacing_model.py`, `test_simple_model.py` | Forty checks, including that the adapter reproduces the AI Futures Model's own dates. The three that need the AI Futures checkout skip without `AIFM_PATH`. `chain/` has eighteen of its own |
 | `requirements.txt` | The library versions the committed results were generated with |
 | `data/` | OpenAI chart data with provenance |
 | `results/` | Generated tables (`tables.md`, CSV) and figures. Do not edit by hand. |
